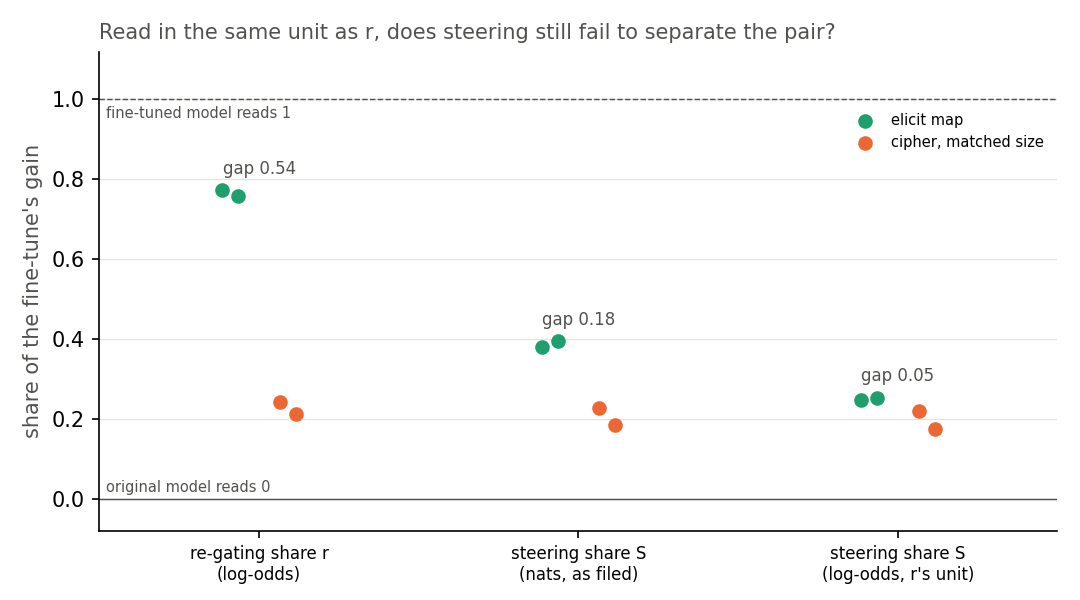
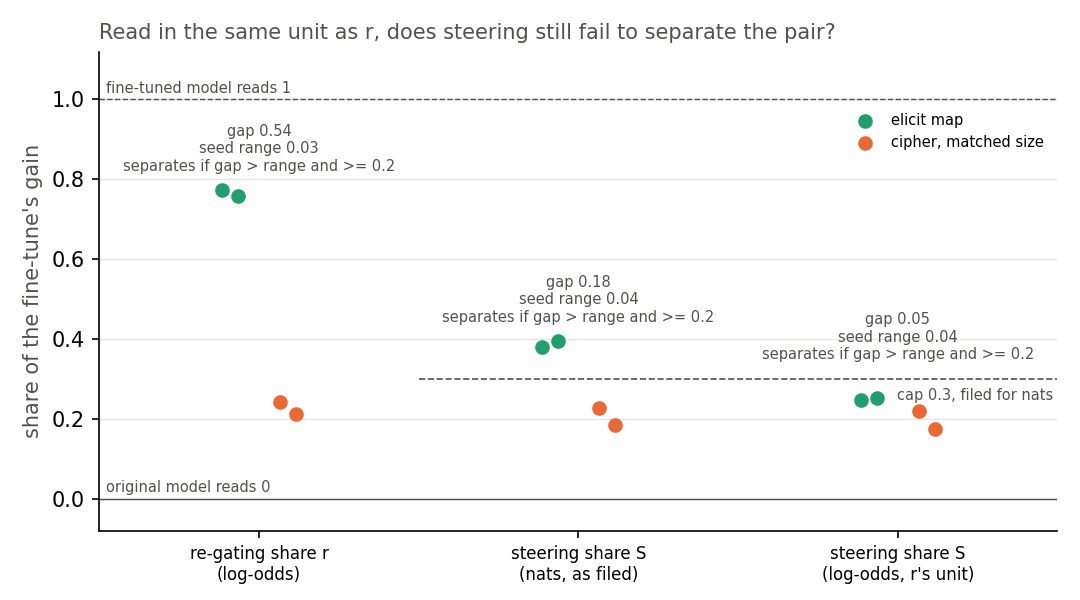
E54 A1 analysis: apply independent check (review ddbfafc)

Changed region(s): [[0.0917, 0.12, 0.3667, 0.3], [0.7028, 0.51, 0.9778, 0.69], [0.3972, 0.45, 0.6722, 0.54]]

diff --git a/experiments/keydependent_elicit/plot_amend1.py b/experiments/keydependent_elicit/plot_amend1.py
@@ -1,7 +1,8 @@
 """E54 Amendment 1's one figure, from results/amend1.json (no model).
 
   figures/a1_units.png  for the elicit map and the matched cipher, two seeds each: r (log-odds), S in nats, and S_lo
-                        (S read in log-odds, r's unit), with each reading's gap between the kinds' means written above
+                        (S read in log-odds, r's unit), with each reading's gap, larger seed range and the
+                        filed minimum gap of 0.2 written above, and the 0.3 cap (filed for S in nats) drawn
 
 Usage (repo root):  ~/commute-agents/fleet/cpu-run .venv/bin/python experiments/keydependent_elicit/plot_amend1.py
 """
@@ -22,6 +23,7 @@ COLOR = {"cipher": "#eb6834", "elicit": "#1f9e6e"}
 INK, GRID = "#52514e", "#e4e3df"
 READINGS = [("r", "re-gating share r\n(log-odds)"), ("S", "steering share S\n(nats, as filed)"),
             ("S_lo", "steering share S\n(log-odds, r's unit)")]
+MIN_GAP = 0.2  # E54's separation rule, predictions_amend1.json thresholds.min_gap
 KINDS = [("elicit", "elicit map"), ("cipher", "cipher, matched size")]
 
 
@@ -33,22 +35,27 @@ def main() -> None:
     st: dict[str, Any] = json.loads((HERE / "results" / "amend1.json").read_text())["states"]
     fig, ax = plt.subplots(figsize=(7.2, 4.0))
     for x, (key, _) in enumerate(READINGS):
-        means = {}
+        means, ranges = {}, {}
         for k, (kind, label) in enumerate(KINDS):
             ys = [st[f"{kind}_s{s}"][key] for s in (0, 1)]
-            means[kind] = mean(ys)
+            means[kind], ranges[kind] = mean(ys), max(ys) - min(ys)
             xs = [x + 0.18 * (k - 0.5) + 0.05 * (i - 0.5) for i in range(2)]
             ax.scatter(xs, ys, s=36, color=COLOR[kind], zorder=3, label=label if x == 0 else None)
         top = max(st[f"{kind}_s{s}"][key] for kind, _ in KINDS for s in (0, 1))
-        ax.annotate(f"gap {means['elicit'] - means['cipher']:.2f}", (x, top), xytext=(0, 8),
-                    textcoords="offset points", ha="center", fontsize=8, color=INK)
+        note = (f"gap {means['elicit'] - means['cipher']:.2f}\nseed range {max(ranges.values()):.2f}\n"
+                f"separates if gap > range and >= {MIN_GAP}")
+        ax.annotate(note, (x, max(top, 0.3)), xytext=(0, 8), textcoords="offset points", ha="center", va="bottom",
+                    fontsize=7, color=INK)
+    ax.plot([0.5, len(READINGS) - 0.5], [0.3, 0.3], color=INK, lw=0.8, ls="--")
+    ax.annotate("cap 0.3, filed for nats", (len(READINGS) - 0.5, 0.3), xytext=(-2, -10), textcoords="offset points",
+                ha="right", fontsize=7, color=INK)
     ax.set_xticks(range(len(READINGS)), [r[1] for r in READINGS], fontsize=8)
     ax.set_xlim(-0.5, len(READINGS) - 0.5)
     ax.set_ylim(-0.08, 1.12)
     ax.axhline(0, color=INK, lw=0.7)
     ax.axhline(1, color=INK, lw=0.7, ls="--")
     for y, label in ((0, "original model reads 0"), (1, "fine-tuned model reads 1")):
-        ax.annotate(label, (0, y), xycoords=("axes fraction", "data"), xytext=(3, -9 if y else 3),
+        ax.annotate(label, (0, y), xycoords=("axes fraction", "data"), xytext=(3, 3),
                     textcoords="offset points", fontsize=7, color=INK)
     ax.legend(fontsize=7, frameon=False, loc="upper right", bbox_to_anchor=(1, 0.9))
     ax.set_title("Read in the same unit as r, does steering still fail to separate the pair?", fontsize=10,

diff --git a/reports/analyses/2026-10-30_analysis_e54-keydependent-elicit.md b/reports/analyses/2026-10-30_analysis_e54-keydependent-elicit.md
@@ -99,9 +99,9 @@ The filed verdict stays as scored at matched size, which is the user's choice. T
 | cipher at its own step, S in nats | 0.51 | 0.30 | ~1.7x |
 | matched cipher, S in nats, as filed | 0.54 | 0.18 | ~3x |
 | matched cipher, each gap over its noise floor of 0.04 and 0.08 | 13.5 | 2.3 | ~6x |
-| matched cipher, S measured in log-odds units, Amendment 1 | 0.54 | 0.052 | 10.3x |
+| matched cipher, S measured in log-odds units, Amendment 1 | 0.54 | 0.052 | at least about 6x (10.3x at the seed means) |
 
-The last row was at first an estimate of over tenfold, from dividing the vector's nats by each state's log-odds gain. Amendment 1, at the end of this report, measured it at 10.3. The direction holds in every row: the decomposition separates the pair more clearly than one mean steering vector.
+The last row was at first a guess of over tenfold, from dividing the vector's nats by each state's log-odds gain. Amendment 1, at the end of this report, measured it. The ratio is at least about six, 10.3 at the seed means. Steering's gap is barely above its seed range, so the ratio has no upper bound from two seeds. The direction holds in every row: the decomposition separates the pair more clearly than one mean steering vector.
 
 ## Does the cipher's r depend on how far it was trained?
 
@@ -191,7 +191,7 @@ Figures regenerated by `plot.py` through `fleet/cpu-run`; titles and reference l
 
 ## Amendment 1 (2026-10-30): steering's share read in the re-gating share's unit
 
-We re-read the six saved weight changes and measured how much of each fine-tune's gain one steering vector recovers, now in log-odds, the unit the re-gating share uses. In that unit steering recovers about a quarter of the elicit map's gain and about a fifth of the matched cipher's, so it still does not separate the pair. The decomposition's gap between the two tasks is now measured at about ten times steering's, and the headline above stands.
+We re-read the six saved weight changes and measured how much of each fine-tune's gain one steering vector recovers, now in log-odds, the unit the re-gating share uses. In that unit steering recovers about a quarter of the elicit map's gain and about a fifth of the matched cipher's, so it still does not separate the pair. The decomposition's gap between the two tasks is at least about six times steering's, 10.3 times at the seed means. The headline above stands.
 
 ![The re-gating share and the steering share in nats and in log-odds, for the elicit map and the matched cipher](../../experiments/keydependent_elicit/figures/a1_units.png)
 
@@ -199,11 +199,13 @@ We re-read the six saved weight changes and measured how much of each fine-tune'
 
 **The check that ran first.** Before any log-odds reading, the job re-read each of the six saved weight changes and recomputed S in nats twice. Once it used the main run's steering code, and once the new code path that $S_\text{lo}$ uses, with only the readout swapped back to log probability. Both matched the main run's S to every printed digit on all six states, and every file's sha256 matched. So the vector, block, windows and edit site are the ones the main run used.
 
-**Reading it.** Steering still does not separate the pair in r's unit. On the elicit map it recovers 0.246 and 0.252 of the log-odds gain. On the matched cipher it recovers 0.219 and 0.175. The gap between the task means is 0.052, just above the larger seed range of 0.043 and far under the filed minimum of 0.2. The re-gating share's gap on the same states is 0.54. That makes r's gap 10.3 times steering's, against our estimate of over tenfold.
+**Reading it.** Steering still does not separate the pair in r's unit. On the elicit map it recovers 0.246 and 0.252 of the log-odds gain. On the matched cipher it recovers 0.219 and 0.175. The gap between the task means is 0.052, just above the larger seed range of 0.043 and far under the filed minimum of 0.2. The re-gating share's gap on the same states is 0.54. So r's gap is at least about six times steering's, 10.3 times at the seed means.
 
-What changed from the estimate. The estimate put steering's log-odds gap near 0.04; the measured gap is 0.052, a little larger. The elicit map's share sat slightly above the estimated lower bound, as the plan expected. On the few keys where the steered probability is not small, the log-odds rise exceeds the nats rise. The cipher's share moved under 0.01 from its nats value, because the steered probability stays tiny there. Every value fell inside its filed band. The ratio is a quotient of two gaps, and the smaller gap is barely above its own seed range. So the ratio itself is noisy: it would read about 6 if steering's gap were one seed range wider.
+The ratio is a quotient of two gaps, and steering's gap is barely above its own seed range. With steering's gap one seed range wider, the ratio would read about 5.6. With it one range narrower, it would read about 60. Two seeds bound the ratio below near 6 and do not bound it above.
 
-**The unit explains the earlier cap miss.** In nats the elicit map's steering share was 0.38 and 0.39, above the filed cap of 0.3. In log-odds it is 0.25 on both seeds, under the cap. This supports the main section's reading that the cap miss came mostly from the unit. The filed prediction stays failed as scored; this is the same vector read in another unit, after the fact.
+What changed from the estimates. The filed expectation for steering's gap was 0.05, and the measured 0.052 matches it. The analysis's earlier ratio table had guessed about 0.04, which gave "over tenfold". On the elicit map the steered rise is 2.66 and 2.75 in log-odds, against 2.54 and 2.62 in nats. The plan expected this difference to come from the few keys where the steered probability is not small; no per-key breakdown was run. The cipher's share moved under 0.01 from its nats value. Every value fell inside its filed band.
+
+**The unit explains the earlier cap miss.** In nats the elicit map's steering share was 0.38 and 0.39, above the filed cap of 0.3. In log-odds it is 0.25 on both seeds. The cap was filed for the nats share, so this compares the log-odds share with a threshold set for the other unit. The rise barely changes between units, while the elicit map's gain on the scoring windows grows from about 6.7 nats to about 10.9 in log-odds. This supports the main section's reading that the cap miss came mostly from the unit. The filed prediction stays failed as scored; this is the same vector read in another unit, after the fact.
 
 **The gap between the two readings on each state.** On the elicit map, r minus $S_\text{lo}$ is 0.53 and 0.51, above the filed bar of 0.3. On the matched cipher it is 0.02 and 0.04, as expected: there the two shares nearly coincide. At the cipher's own step, the steering share in log-odds is 0.075 and 0.045, matching the values filed as reported.
 
@@ -218,7 +220,7 @@ What changed from the estimate. The estimate put steering's log-odds gap near 0.
 | cipher own step, seed 0 | 0.114 | 0.075 | 0.265 | 0.190 | 0.075, reported |
 | cipher own step, seed 1 | 0.066 | 0.045 | 0.243 | 0.198 | 0.045, reported |
 
-**How the code review's two findings were handled.** The first finding was that the log-odds readout had no check on the GPU before scoring. The run printed a cross-check, not a stop. It computes the fine-tune's log-odds gain on all 97 held-out windows through the steering code, and the route split's gain through the component model at batch 64. These agree within 1.4e-4 to 4.7e-4 relative on all six states. That is far below the size of any readout bug and is the first measured floor between these two forward paths. The second finding was that the cipher's-own-step score read the main run's S, while the filed rule names S as the startup check recomputes it. Here the two are identical, with a difference of exactly 0 on all six states, so the score is the same either way. The other two findings were fixed in code before the run, at commit 66c2c72.
+**How the code review's two findings were handled.** The first finding was that the log-odds readout had no check on the GPU before scoring. The run printed a cross-check, not a stop. It reads the fine-tune's log-odds gain on all 97 held-out windows twice. One reading goes through the steering code, the other through the route split's component model at batch 64. The two agree within 1.4e-4 to 4.7e-4 relative on all six states. That is far below the size of any readout bug and is the first measured floor between these two forward paths. The second finding was that the cipher's-own-step score read the main run's S. The filed rule names S as the startup check recomputes it. Here the two differ by exactly 0 on all six states, so the score is the same either way. The other two findings were fixed in code before the run, at commit 66c2c72.
 
 | state | log-odds gain, steering code | log-odds gain, route split | relative difference |
 |---|---|---|---|
@@ -229,7 +231,7 @@ What changed from the estimate. The estimate put steering's log-odds gap near 0.
 | cipher own step, seed 0 | 20.804 | 20.801 | 1.4e-4 |
 | cipher own step, seed 1 | 20.464 | 20.459 | 2.1e-4 |
 
-**Does the headline change?** No. The top paragraph says the decomposition separates the pair more clearly than steering, by a margin that depends on the units. The margin in one shared unit is now measured at 10.3, which sits inside the range already given. "What we learned" said "under twofold to over tenfold"; 10.3 is consistent with that.
+**Does the headline change?** No. The top paragraph says the decomposition separates the pair more clearly than steering, by a margin that depends on the units. In one shared unit the margin is at least about six, 10.3 at the seed means. That sits inside the range already given. "What we learned" said "under twofold to over tenfold", which still holds.
 
 **What each number is blind to.** $S_\text{lo}$ is blind to anything one input-independent vector at one position cannot carry, and to which keys carry the rise. Log-odds gives windows where the target is nearly certain unbounded weight, as r's gain does; that is why this unit is read. The difference r − $S_\text{lo}$ sets two shares side by side in one unit. They are shares of different things. $S_\text{lo}$ is a share of the target model's gain on 48 windows; r is a share of the CI-masked model's re-gating term on 97. It is a table number, not a mechanism. Two seeds per task give a range, not a variance.
 
@@ -258,6 +260,7 @@ The run's branch read: "as predicted: in log-odds S does not separate the pair; 
 - A per-key breakdown of the steering share in log-odds.
 - A random update of matched size, as a null for both shares.
 - The log-odds readout at the cipher's own step scored by a filed rule; it was reported only.
+- More than two seeds. The ratio of the gaps rests on them: two seeds bound it below near 6 and not above.
 
 ### Provenance, Amendment 1
 

diff --git a/docs/research_log/PENDING.md b/docs/research_log/PENDING.md
@@ -7,4 +7,4 @@ reads this file afresh and flushes what it holds then; a line its brief named th
 clerk: find it in the changelog rather than re-adding it (friction 84, 117).
 A flush applies every line to `parts/` (README.md → Layout), rebuilds, republishes, and moves the lines to the changelog row it writes, leaving this list empty.
 - 2026-10-30 · reports/analyses/2026-10-30_analysis_e55-amend5.md, reports/reviews/2026-10-30_review_e55-amend5-analysis.md · E55 card, timeline, section 3 · E55 Amendment 5 checked and corrected: unseen (not fresh) rows, P4 met but untestable, 16 reuses states (17 with W1s1) against 9 new; which saves enter Stage C's truth set is fixed by the Stage C plan; fast copy is a paired comparison, not an independent run; six departures added; cards decision-e55-plan and decision-e55-truth-set removed with the user's decisions recorded in the E55 Next line and timeline; job IDs 46022 and 46023.
-- 2026-10-30 · baseline-lead · reports/analyses/2026-10-30_analysis_e54-keydependent-elicit.md (section "Amendment 1"), notebooks/E54_keydependent_elicit.ipynb, experiments/keydependent_elicit/figures/a1_units.png, experiments/TRIED.md · E54 card · E54 Amendment 1 (job 46070, $0): steering's share read in log-odds, the re-gating share's unit, still does not separate the elicit map from the matched cipher (0.25, 0.25 vs 0.22, 0.18; gap 0.05 under the 0.2 minimum); the re-gating share's gap is 10.3 times steering's, measured, replacing the estimate "over tenfold"; headline unchanged; in log-odds the elicit steering share is under the 0.3 cap the nats share missed (P2 stays failed as filed).
+- 2026-10-30 · baseline-lead · reports/analyses/2026-10-30_analysis_e54-keydependent-elicit.md (section "Amendment 1"), notebooks/E54_keydependent_elicit.ipynb, experiments/keydependent_elicit/figures/a1_units.png, experiments/TRIED.md · E54 card · E54 Amendment 1 (job 46070, $0): steering's share read in log-odds, the re-gating share's unit, still does not separate the elicit map from the matched cipher (0.25, 0.25 vs 0.22, 0.18; gap 0.05 under the 0.2 minimum); the re-gating share's gap is at least about 6 times steering's (10.3 at the seed means; one seed range wider ~5.6, narrower ~60), replacing the earlier guess "over tenfold"; the filed gap expectation 0.05 matched; headline unchanged; in log-odds the elicit steering share is under the 0.3 cap the nats share missed (P2 stays failed as filed).
